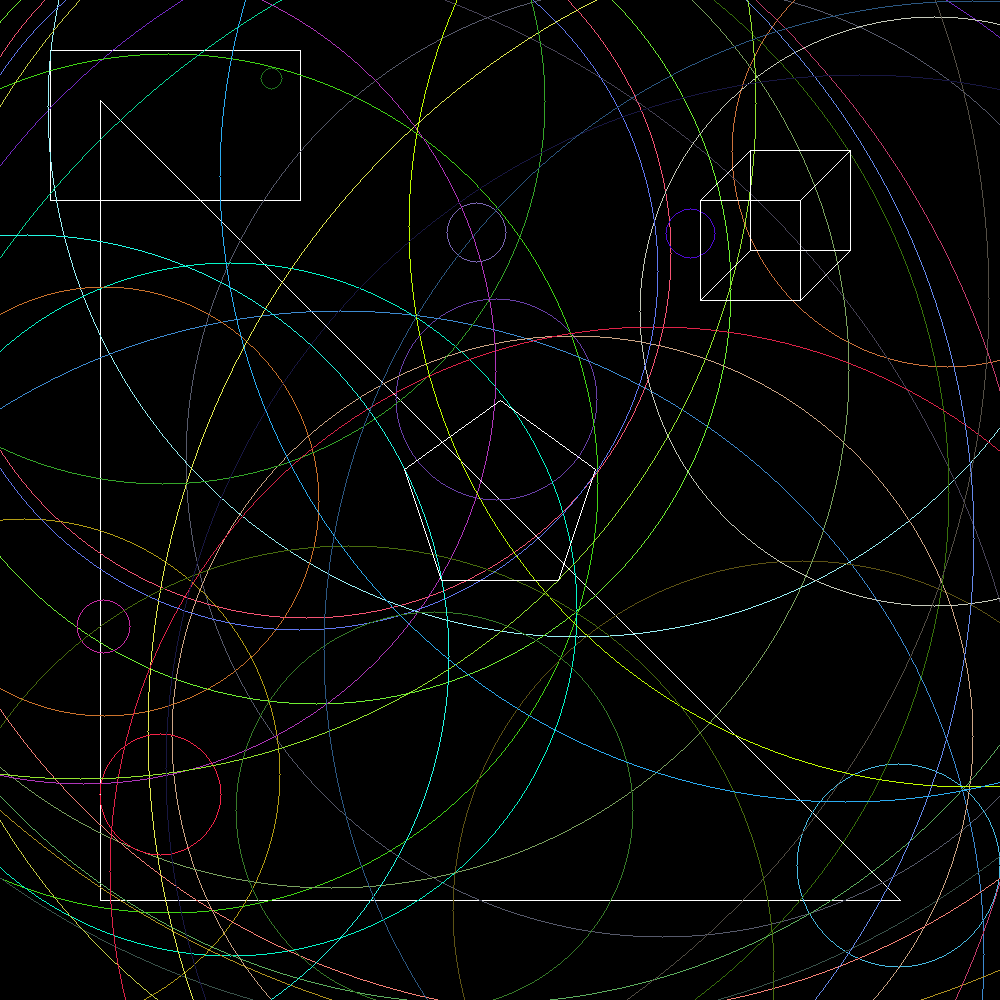
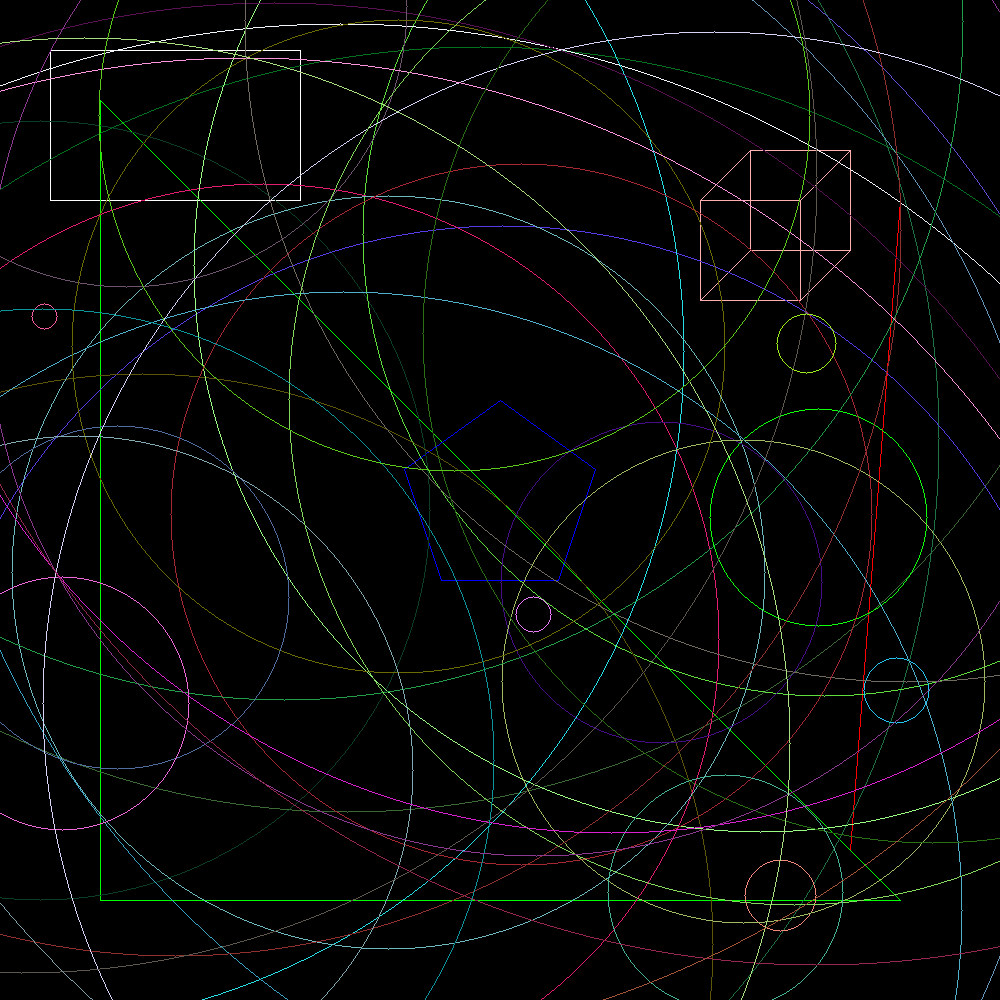
adding jrawing

diff --git a/jrawing/geometrical_shapes/Circle.java b/jrawing/geometrical_shapes/Circle.java
@@ -1,24 +1,25 @@
-package jrawing;
+package geometrical_shapes;
 
 import java.awt.Color;
 import java.util.Random;
+
 
 public class Circle implements Drawable {
     private final int radius;
     private final Point center;
     private final Color color;
+
     public Circle(Point center, int radius) {
         this.center = center;
         this.radius = radius;
-        this.color = new Color(
-            (int)(Math.random() * 256),
-            (int)(Math.random() * 256),
-            (int)(Math.random() * 256)
-        ); // Random color for circles
+        Random rand = new Random();
+        this.color = new Color(rand.nextInt(256), rand.nextInt(256), rand.nextInt(256)); // Random color for circles
     }
+    
     public static Circle random(int maxX, int maxY) {
         Random rand = new Random();
         Point center = Point.random(maxX, maxY);
+
         int maxSize = Integer.max(maxX, maxY);
         int radius = rand.nextInt(maxSize) + 10; // Radius between 10 and 60
         return new Circle(center, radius);
@@ -33,24 +34,28 @@ public class Circle implements Drawable {
         int err = 0;
 
         while (x >= y) {
-            displayable.display(x0 + x, y0 + y, color);
-            displayable.display(x0 + y, y0 + x, color);
-            displayable.display(x0 - y, y0 + x, color);
-            displayable.display(x0 - x, y0 + y, color);
-            displayable.display(x0 - x, y0 - y, color);
-            displayable.display(x0 - y, y0 - x, color);
-            displayable.display(x0 + y, y0 - x, color);
-            displayable.display(x0 + x, y0 - y, color);
+            plotCirclePoints(displayable, x0, y0, x, y);
+            y++;
 
             if (err <= 0) {
-                y += 1;
                 err += 2*y + 1;
             }
             if (err > 0) {
-                x -= 1;
+                x--;
                 err -= 2*x + 1;
             }
         }
+    }
+
+    private void plotCirclePoints(Displayable displayable, int x0, int y0, int x, int y) {
+        displayable.display(x0 + x, y0 + y, color);
+        displayable.display(x0 + y, y0 + x, color);
+        displayable.display(x0 - y, y0 + x, color);
+        displayable.display(x0 - x, y0 + y, color);
+        displayable.display(x0 - x, y0 - y, color);
+        displayable.display(x0 - y, y0 - x, color);
+        displayable.display(x0 + y, y0 - x, color);
+        displayable.display(x0 + x, y0 - y, color);
     }
 
     @Override

diff --git a/jrawing/geometrical_shapes/Cube.java b/jrawing/geometrical_shapes/Cube.java
@@ -1,4 +1,4 @@
-package jrawing;
+package geometrical_shapes;
 
 import java.awt.Color;
 
@@ -10,7 +10,7 @@ public class Cube implements Drawable {
     public Cube(Point frontTopLeft, int size) {
         this.frontTopLeft = frontTopLeft;
         this.size = size;
-        this.color = Color.BLACK;
+        this.color = Color.PINK;
     }
 
     @Override
@@ -18,28 +18,28 @@ public class Cube implements Drawable {
         int x = frontTopLeft.getX();
         int y = frontTopLeft.getY();
         
-        // Front face
+        // Define the points of the front face 
         Point frontTopRight = new Point(x + size, y);
         Point frontBottomLeft = new Point(x, y + size);
         Point frontBottomRight = new Point(x + size, y + size);
         
-        // Back face (shifted by size/2 for perspective)
+        // Define the points of the back face, shifted by size/2 for perspective
         Point backTopLeft = new Point(x + size/2, y - size/2);
         Point backTopRight = new Point(x + size + size/2, y - size/2);
         Point backBottomLeft = new Point(x + size/2, y + size - size/2);
         Point backBottomRight = new Point(x + size + size/2, y + size - size/2);
         
-        // Draw front face
-        new Rectangle(frontTopLeft, frontBottomRight).draw(displayable);
+        // Draw the front face
+        new Rectangle(frontTopLeft, frontBottomRight, this.color).draw(displayable);
         
-        // Draw back face
-        new Rectangle(backTopLeft, backBottomRight).draw(displayable);
+        // Draw the back face
+        new Rectangle(backTopLeft, backBottomRight, this.color).draw(displayable);
         
-        // Connect front to back
-        new Line(frontTopLeft, backTopLeft).draw(displayable);
-        new Line(frontTopRight, backTopRight).draw(displayable);
-        new Line(frontBottomLeft, backBottomLeft).draw(displayable);
-        new Line(frontBottomRight, backBottomRight).draw(displayable);
+        // Connect corresponding corners between front and back face
+        new Line(frontTopLeft, backTopLeft, this.color).draw(displayable);
+        new Line(frontTopRight, backTopRight, this.color).draw(displayable);
+        new Line(frontBottomLeft, backBottomLeft, this.color).draw(displayable);
+        new Line(frontBottomRight, backBottomRight, this.color).draw(displayable);
     }
 
     @Override

diff --git a/jrawing/Main.java b/jrawing/Main.java
@@ -1,37 +1,34 @@
 package jrawing;
 
 import java.awt.Color;
-
-interface Displayable {
-    void display(int x, int y, Color color);
-    void save(String string);
-}
-
-interface Drawable {
-    void draw(Displayable displayable);
-    Color getColor();
-}
+import geometrical_shapes.*;
 
 public class Main {
     public static void main(String[] args) {
         Image image = new Image(1000, 1000);
         Rectangle rectangle = new Rectangle(new Point(50, 50), new Point(300, 200));
-        rectangle.draw(image);
+        drawAndPrint(rectangle, image);
+        Line line = new Line(new Point(900, 200), new Point(850, 850));
+        drawAndPrint(line, image);
         Triangle triangle = new Triangle(new Point(100, 100), new Point(900, 900), new Point(100, 900));
-        triangle.draw(image);
+        drawAndPrint(triangle, image);
+
+        // Bonus shapes
+        Pentagon pentagon = new Pentagon(new Point(500, 500), 100);
+        drawAndPrint(pentagon, image);;
+        Cube cube = new Cube(new Point(700, 200), 100);
+        drawAndPrint(cube, image);;
 
         for (int i = 0; i < 50; i++) {
             Circle circle = Circle.random(image.getWidth(), image.getHeight());
             circle.draw(image);
         }
-        
-        // Bonus shapes
-        Pentagon pentagon = new Pentagon(new Point(500, 500), 100);
-        pentagon.draw(image);
-        
-        Cube cube = new Cube(new Point(700, 200), 100);
-        cube.draw(image);
+        System.out.println("Drew 50 random colored circles.");
 
-        image.save("jrawing/image.png");
+        image.save("image.png");
+    }
+    public static void drawAndPrint(Drawable shape, Displayable displayable) {
+        shape.printInfo();
+        shape.draw(displayable);
     }
 }

diff --git a/jrawing/geometrical_shapes/Rectangle.java b/jrawing/geometrical_shapes/Rectangle.java
@@ -1,4 +1,4 @@
-package jrawing;
+package geometrical_shapes;
 import java.awt.Color;
 
 public class Rectangle implements Drawable {
@@ -11,22 +11,29 @@ public class Rectangle implements Drawable {
         this.bottomRight = bottomRight;
         this.color = Color.WHITE;
     }
+    public Rectangle(Point topLeft, Point bottomRight, Color color) {
+        this.topLeft = topLeft;
+        this.bottomRight = bottomRight;
+        this.color = color;
+    }
 
     @Override
     public void draw(Displayable displayable) {
+        // Extract coordinates
         int x1 = topLeft.getX();
         int y1 = topLeft.getY();
         int x2 = bottomRight.getX();
         int y2 = bottomRight.getY();
 
-        // Draw four lines to form a rectangle
+        // Comput the other two corners
         Point topRight = new Point(x2, y1);
         Point bottomLeft = new Point(x1, y2);
 
-        new Line(topLeft, topRight).draw(displayable);
-        new Line(topRight, bottomRight).draw(displayable);
-        new Line(bottomRight, bottomLeft).draw(displayable);
-        new Line(bottomLeft, topLeft).draw(displayable);
+        // Draw four sides 
+        new Line(topLeft, topRight, this.color).draw(displayable);
+        new Line(topRight, bottomRight, this.color).draw(displayable);
+        new Line(bottomRight, bottomLeft, this.color).draw(displayable);
+        new Line(bottomLeft, topLeft, this.color).draw(displayable);
     }
 
     @Override

diff --git a/jrawing/geometrical_shapes/Pentagon.java b/jrawing/geometrical_shapes/Pentagon.java
@@ -1,4 +1,4 @@
-package jrawing;
+package geometrical_shapes;
 
 import java.awt.Color;
 
@@ -7,10 +7,13 @@ public class Pentagon implements Drawable {
     private final Color color;
 
     public Pentagon(Point center, int radius) {
-        this.color = Color.BLACK;
+        this.color = Color.BLUE;
         this.points = new Point[5];
         
+        
         double angle = 2 * Math.PI / 5;
+
+        // Compute coordinates of 5 equally spaced vertices
         for (int i = 0; i < 5; i++) {
             int x = (int) (center.getX() + radius * Math.cos(i * angle - Math.PI/2));
             int y = (int) (center.getY() + radius * Math.sin(i * angle - Math.PI/2));
@@ -20,8 +23,9 @@ public class Pentagon implements Drawable {
 
     @Override
     public void draw(Displayable displayable) {
+        // Connect each vertex to the next, wrapping around at the end
         for (int i = 0; i < 5; i++) {
-            new Line(points[i], points[(i + 1) % 5]).draw(displayable);
+            new Line(points[i], points[(i + 1) % 5], this.color).draw(displayable);
         }
     }
 

diff --git a/jrawing/geometrical_shapes/Line.java b/jrawing/geometrical_shapes/Line.java
@@ -1,4 +1,5 @@
-package jrawing;
+package geometrical_shapes;
+
 import java.awt.Color;
 
 public class Line implements Drawable {
@@ -8,7 +9,12 @@ public class Line implements Drawable {
     public Line(Point p1, Point p2){
         this.p1 = p1;
         this.p2 = p2;
-        this.color = Color.WHITE;
+        this.color = Color.RED;
+    }
+    public Line(Point p1, Point p2, Color color) {
+        this.p1 = p1;
+        this.p2 = p2;
+        this.color = color;
     }
     public static Line random(int maxX, int maxY) {
         return new Line(Point.random(maxX, maxY), Point.random(maxX, maxY));
@@ -29,8 +35,10 @@ public class Line implements Drawable {
         int err = dx - dy;
 
         while (true) {
-            displayable.display(x1, y1, color);
+            // Draw current pixel
+            displayable.display(x1, y1, this.color);
 
+            // Stop when end poin is reached
             if (x1 == x2 && y1 == y2) break;
 
             int e2 = 2 * err;

diff --git a/jrawing/geometrical_shapes/Triangle.java b/jrawing/geometrical_shapes/Triangle.java
@@ -1,4 +1,4 @@
-package jrawing;
+package geometrical_shapes;
 import java.awt.Color;
 
 public class Triangle implements Drawable {
@@ -11,13 +11,13 @@ public class Triangle implements Drawable {
         this.p1 = p1;
         this.p2 = p2;
         this.p3 = p3;
-        this.color = Color.WHITE;
+        this.color = Color.GREEN;
     }
     @Override
     public void draw(Displayable displayable){
-        Line L1 = new Line(p1, p2);
-        Line L2 = new Line(p1, p3);
-        Line L3 = new Line(p2, p3);
+        Line L1 = new Line(p1, p2, this.color);
+        Line L2 = new Line(p1, p3, this.color);
+        Line L3 = new Line(p2, p3, this.color);
         L1.draw(displayable);
         L2.draw(displayable);
         L3.draw(displayable);

diff --git a/jrawing/geometrical_shapes/Point.java b/jrawing/geometrical_shapes/Point.java
@@ -1,4 +1,4 @@
-package jrawing;
+package geometrical_shapes;
 
 import java.awt.Color;
 import java.util.Random;
@@ -12,6 +12,7 @@ public class Point implements Drawable {
         this.y = y;
         this.color = Color.WHITE;
     }
+
     public static Point random(int maxX, int maxY) {
         Random rand = new Random();
         return new Point(rand.nextInt(maxX), rand.nextInt(maxY));

diff --git a/jrawing/geometrical_shapes/Drawable.java b/jrawing/geometrical_shapes/Drawable.java
@@ -1,0 +1,13 @@
+package geometrical_shapes;
+
+import java.awt.Color;
+
+public interface Drawable {
+    void draw(Displayable displayable);
+    Color getColor();
+
+    // Bonus: default method
+    default void printInfo() {
+        System.out.println("Drawing a " + this.getClass().getSimpleName() + " with color " + getColor());
+    }
+}

diff --git a/jrawing/geometrical_shapes/Displayable.java b/jrawing/geometrical_shapes/Displayable.java
@@ -1,0 +1,8 @@
+package geometrical_shapes;
+
+import java.awt.Color;
+
+public interface Displayable {
+    void display(int x, int y, Color color);
+    void save(String string);
+}

diff --git a/jrawing/geometrical_shapes/Image.java b/jrawing/geometrical_shapes/Image.java
@@ -1,4 +1,4 @@
-package jrawing;
+package geometrical_shapes;
 
 import java.awt.Color;
 import java.awt.image.BufferedImage;

diff --git a/jrawing/README.md b/jrawing/README.md
@@ -64,16 +64,30 @@ public class Main {
     }
 }
 ```
+## Project Structure
 
-
-### Notions
-
-- [java.awt](https://www.javatpoint.com/java-awt)
-
+```
+/jrawing
+├──/geometrical_shapes
+│   ├── Circle.java
+│   ├── Cube.java
+│   ├── Displayable.java
+│   ├── Drawable.java
+│   ├── Image.java
+│   ├── Line.java
+│   ├── Pentagon.java
+│   ├── Point.java
+│   ├── Rectangle.java
+│   └── Triangle.java
+├── Main.java
+├── example.png
+├── image.png
+└── README.md
+```
 ## How to Compile and Run
 ### 1. clone the repository
 ```bash
-git clone https://01.gritlab.ax/git/mkheirkh/jrawing
+git clone https://01.gritlab.ax/git/mkheirkh/jrawing.git
 ```
 ### 2. change directory
 ```bash
